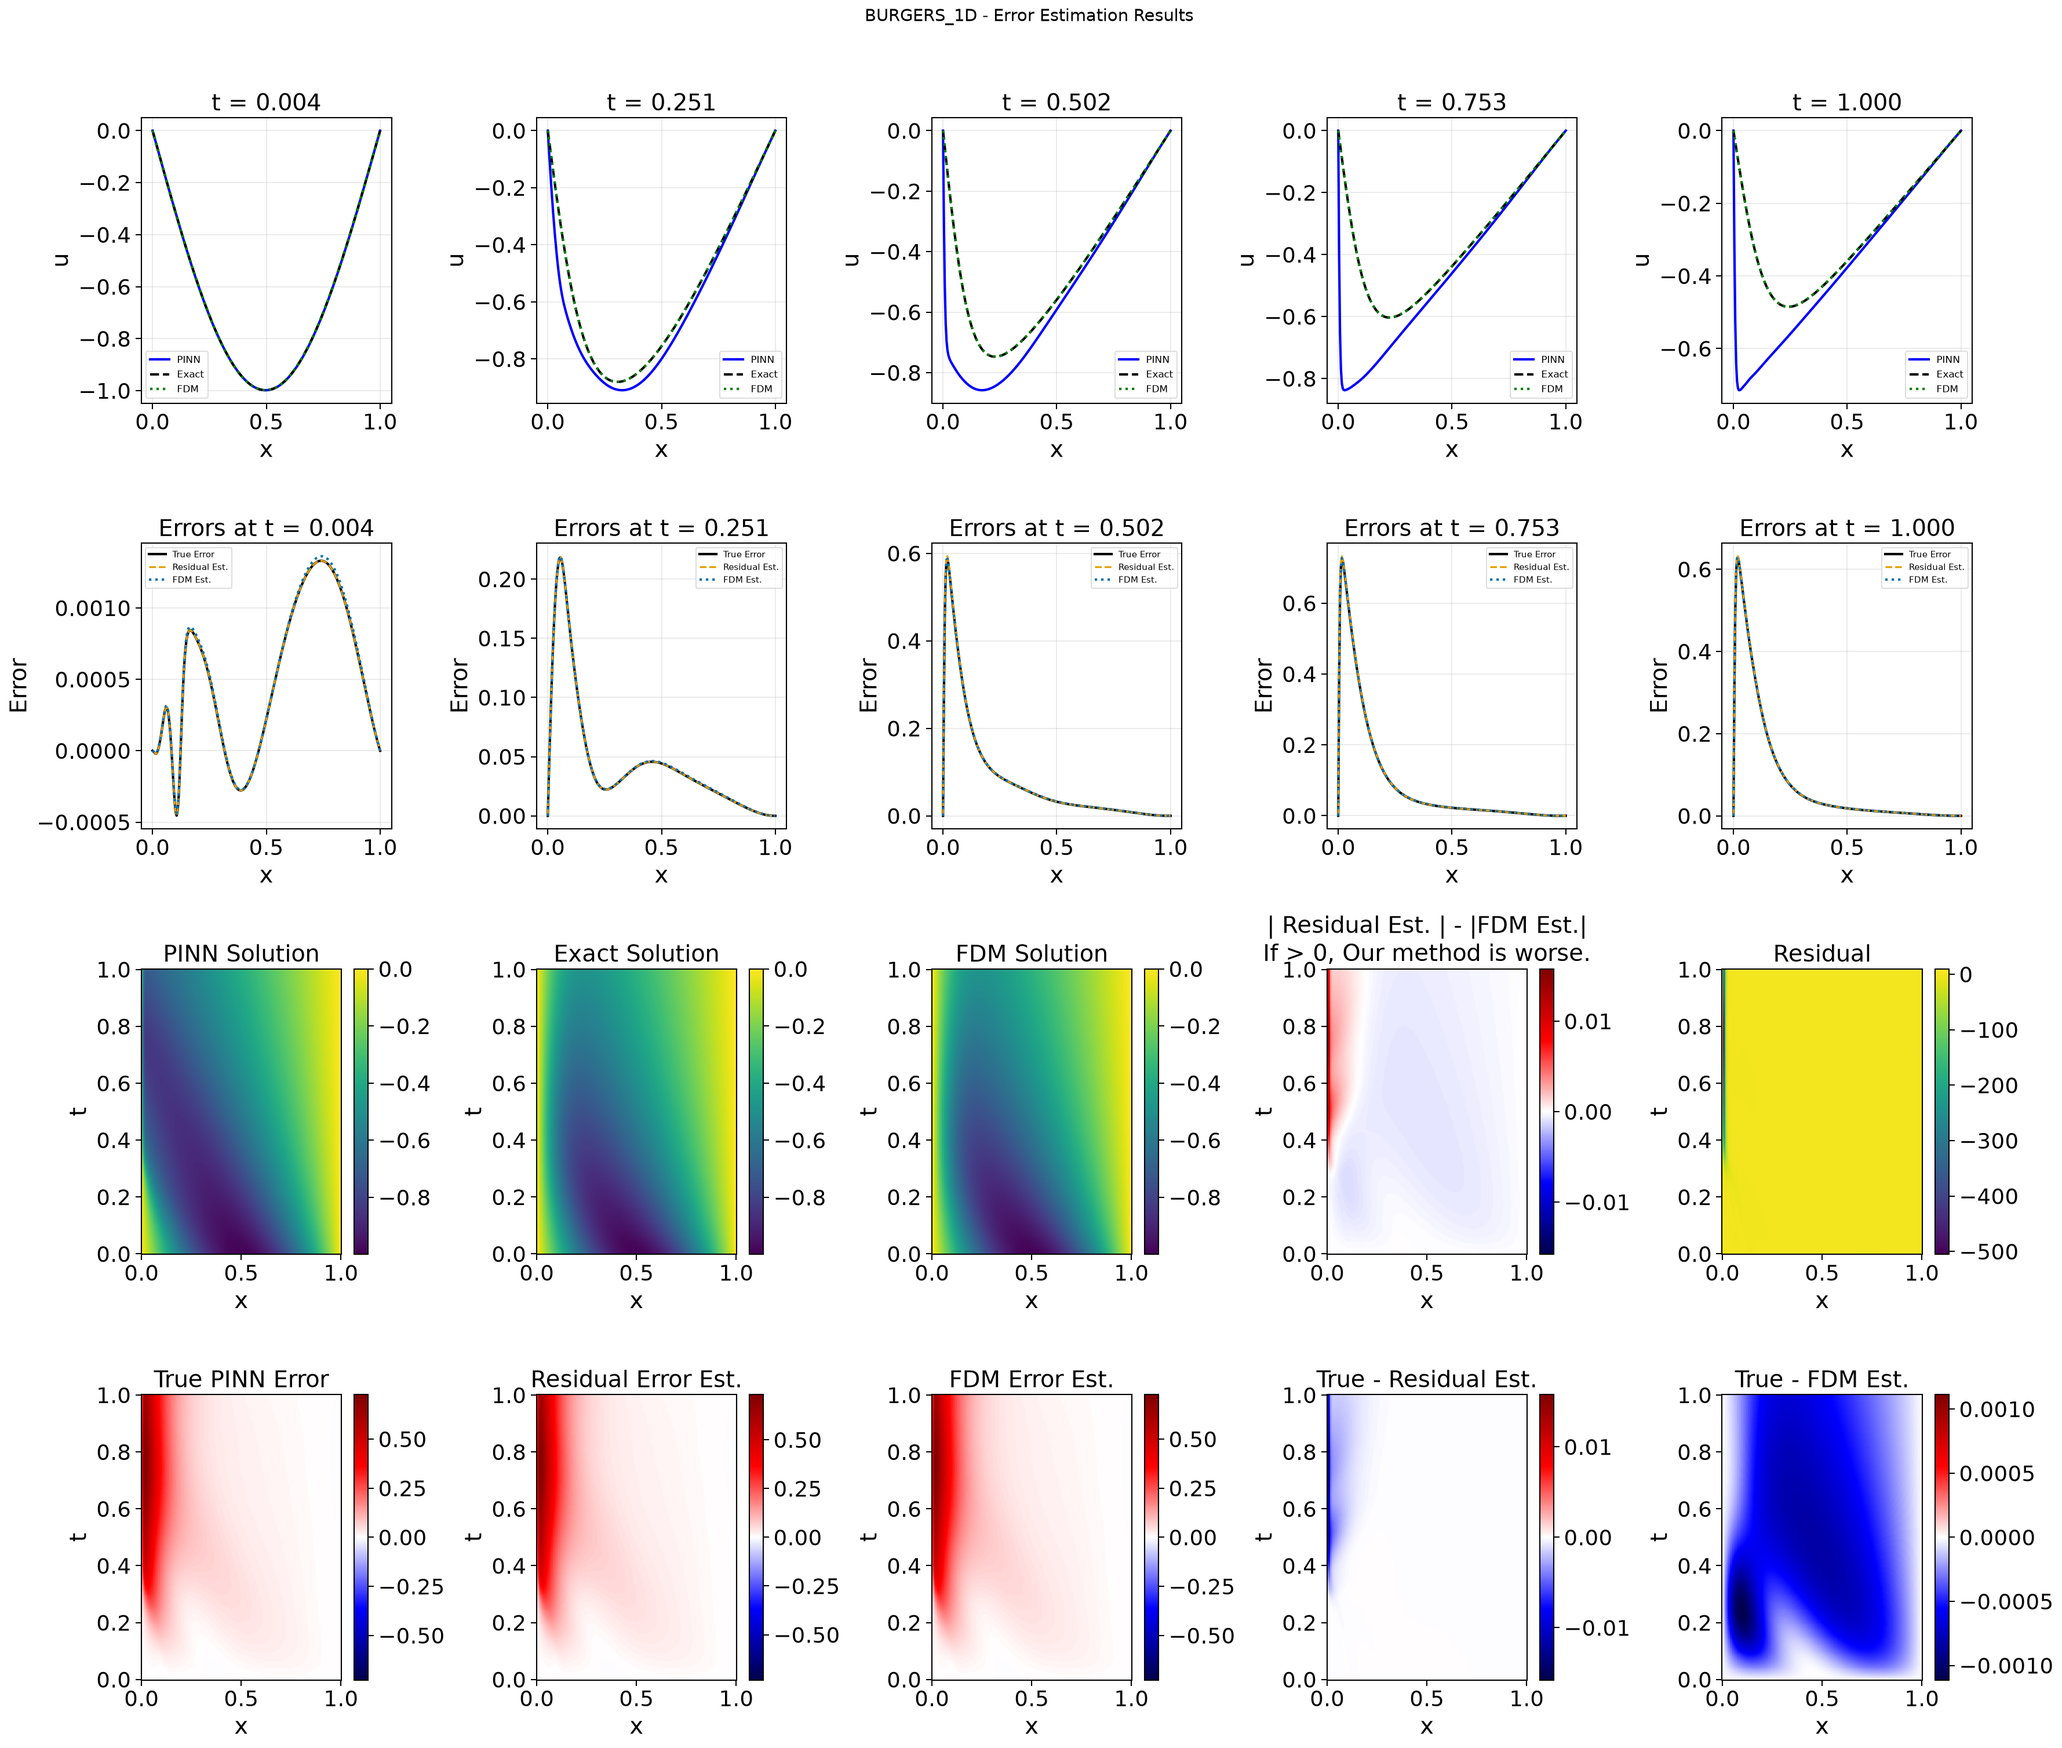
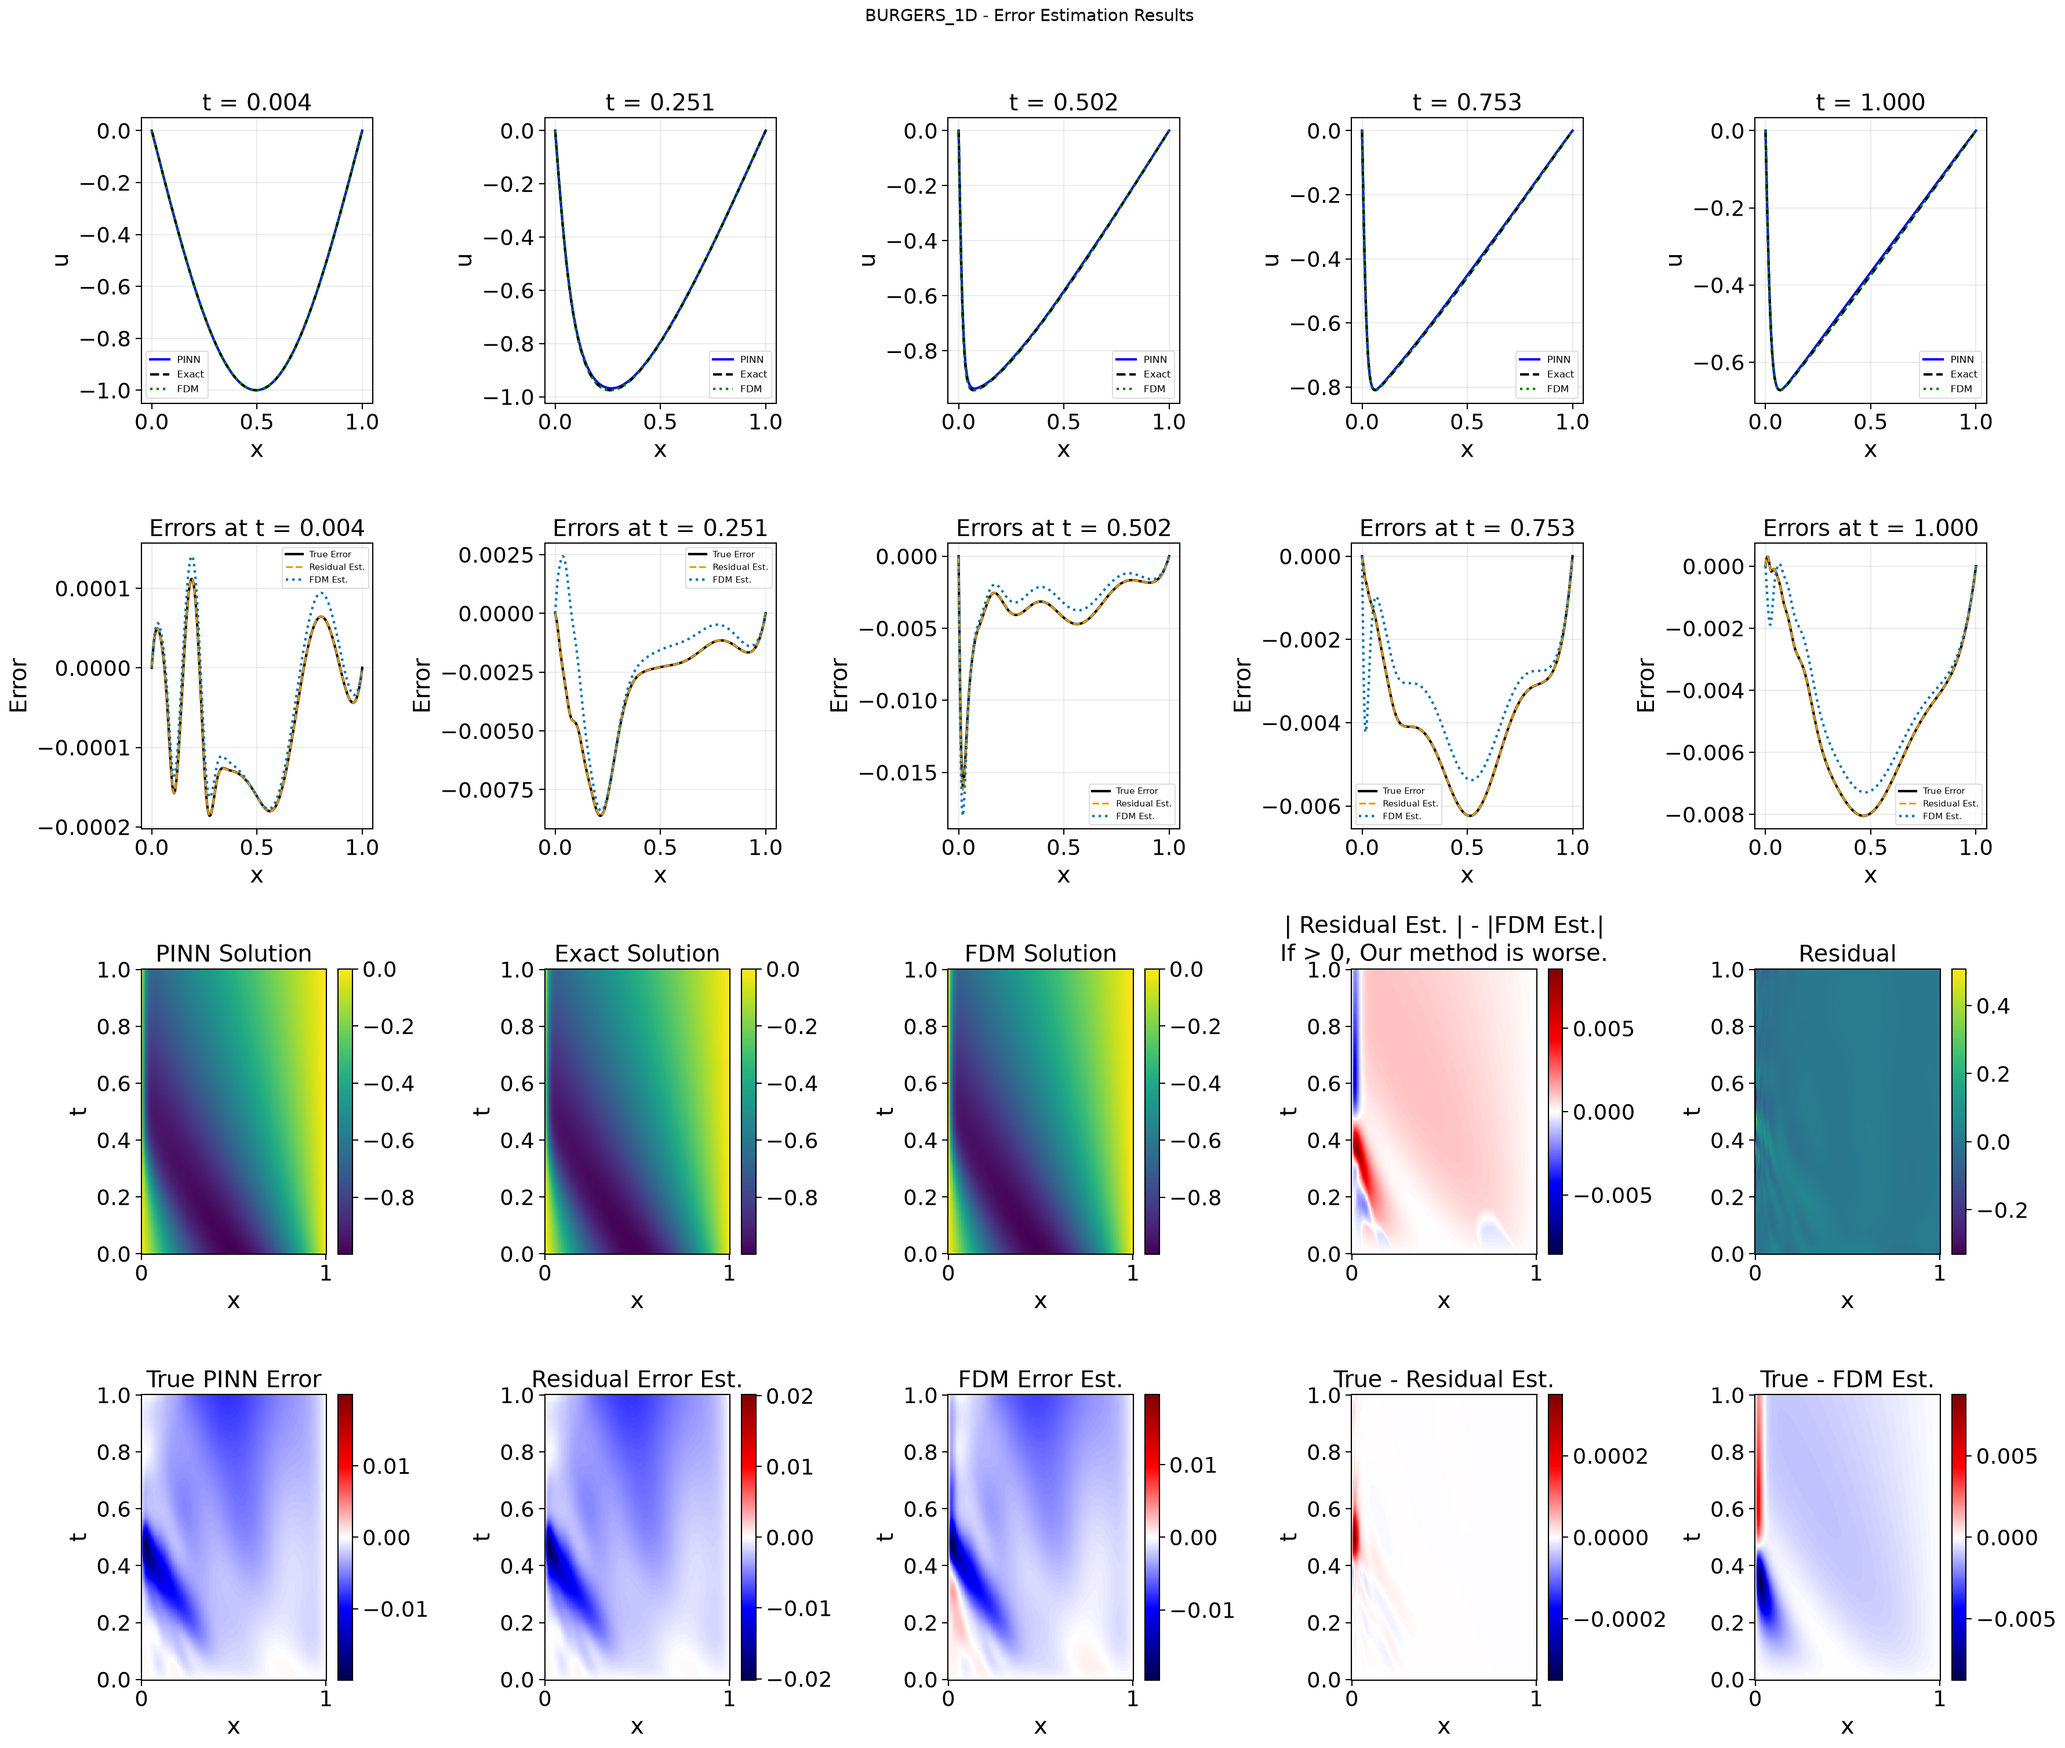
allen cahn implementation - tho still missing

diff --git a/pinn_error/core/fdm.py b/pinn_error/core/fdm.py
@@ -1102,6 +1102,7 @@ class FDMSolverWave1D:
 
 
 class FDMSolverBurgers1D:
+
     def __init__(
         self,
         nx: int,
@@ -1251,3 +1252,204 @@ class FDMSolverBurgers1D:
     def run_time(self) -> float:
         """Returns the FDM solve/error approx. time in seconds."""
         return self._run_time
+
+
+class FDMSolverAllenCahn:
+
+    def __init__(
+        self,
+        nx: int,
+        nt: int,
+        problem: AllenCahn,
+        domain: ProblemDomain,
+        pinn_model: PINNTrainer,
+        hard_constrain_initial: bool = True,
+        hard_constrain_boundary: bool = True,
+        newton_tol: float = 1e-12,
+        newton_max_iter: int = 20,
+    ):
+        """Initialize the FDM solver for the 1D Allen-Cahn equation.
+
+        PDE: u_t = d * u_xx + k * (u - u^3)        (k = problem.reaction = 5)
+
+        Uses Crank-Nicolson time stepping (see Section 3.2)
+            u^{n+1} - 0.5*dt*N(u^{n+1}) = u^n + 0.5*dt*N(u^n),
+            N(u) = d * A_xx u + k (u - u^3)
+        The cubic term makes each step nonlinear; it is solved with Newton's
+        method (tridiagonal Jacobian, typically 3-5 iterations). Lagging the
+        nonlinearity like in the Burgers solver would make the scheme only
+        first order in time.
+
+        Error equation (e = u - û, R = û_t - d û_xx - k(û - û^3)):
+            e_t = d * e_xx + G(e; û) - R,
+            G(e; û) = k[(û + e) - (û + e)^3] - k[û - û^3]
+                    = k(1 - 3û^2) e - 3k û e^2 - k e^3
+        This is exact (not linearized in e), so the estimate stays consistent
+        with the true error also for bad (e.g. randomly initialized) PINNs.
+
+        Args:
+            nx (int): Number of spatial grid points.
+            nt (int): Number of temporal grid points.
+            problem (AllenCahn): The problem definition.
+            domain (ProblemDomain): The problem domain.
+            pinn_model (PINNTrainer): The trained PINN model.
+            hard_constrain_initial (bool, optional): Whether IC is hard-constrained
+                    in the PINN (i.e. constraint_mode="hard"). If False, the actual
+                    pointwise error at t=0 is computed instead of assuming it's zero.
+            hard_constrain_boundary (bool, optional): Whether BC is hard-constrained
+                    in the PINN. If False, the actual boundary error is computed at
+                    every time step instead of assuming it's zero. Defaults to True.
+            newton_tol (float, optional): Max-norm tolerance of the Newton update.
+            newton_max_iter (int, optional): Max Newton iterations per time step;
+                    stability_flag is set if it is reached without converging.
+        """
+        self.problem = problem
+        self.domain = domain
+        self.pinn_model = pinn_model
+        self.hard_constrain_initial = hard_constrain_initial
+        self.hard_constrain_boundary = hard_constrain_boundary
+        self.newton_tol = newton_tol
+        self.newton_max_iter = newton_max_iter
+        self.nx = nx
+        self.nt = nt
+        # Grid spacing
+        self.dx = (self.domain.spatial_bounds[1] - self.domain.spatial_bounds[0]) / (
+            nx - 1
+        )
+        self.dt = (self.domain.temporal_bounds[1] - self.domain.temporal_bounds[0]) / (
+            nt - 1
+        )
+        # Create grids
+        self.x = np.linspace(
+            self.domain.spatial_bounds[0], self.domain.spatial_bounds[1], nx
+        )
+        self.t = np.linspace(
+            self.domain.temporal_bounds[0], self.domain.temporal_bounds[1], nt
+        )
+        # caching once -- only the diagonal reaction part changes per iteration
+        self._A_xx = FDMMatrixBuilder.get_derivative_matrix_1d(nx, self.dx, order=2)
+        self._D = (self.problem.d * self._A_xx).tocsr()
+        self.stability_flag = False  # flag for stability issues
+        self._run_time = 0.0
+
+
+    def _build_matrices(self, reaction: np.ndarray):
+        """Newton matrix of the implicit CN half step:
+            M_lhs = I - 0.5*dt*(d*A_xx + diag(reaction)),  Dirichlet rows = identity
+        Args:
+            reaction: dG/dy at the current Newton iterate, k(1 - 3(û + y)^2)
+                      (û = 0 for solve())
+        """
+        L = self._D + sparse.diags(reaction)
+        I = sparse.eye(self.nx, format="csr")
+        M_lhs = (I - 0.5 * self.dt * L).tolil()
+        for i in (0, -1):                      # Dirichlet rows
+            M_lhs[i, :] = 0; M_lhs[i, i] = 1
+        self.M_lhs = M_lhs.tocsr()
+
+
+    def _G(self, y: np.ndarray, u_hat: np.ndarray) -> np.ndarray:
+        """G(y; û) = k[(û + y) - (û + y)^3] - k[û - û^3]
+        (û = 0 gives the plain reaction k(u - u^3) used in solve())."""
+        k = self.problem.reaction
+        w = u_hat + y
+        return k * (w - w**3) - k * (u_hat - u_hat**3)
+
+
+    def _cn_step(self, y_n, u_hat_n, u_hat_next, R_n, R_next, bc_next):
+        """One CN step for y_t = d y_xx + G(y; û) - R, solved with Newton.
+        Dirichlet values y[0], y[-1] = bc_next."""
+        half_dt = 0.5 * self.dt
+        explicit = (
+            y_n + half_dt * (self._D @ y_n + self._G(y_n, u_hat_n) - R_n)
+            - half_dt * R_next
+        )
+        y = y_n.copy()
+        y[[0, -1]] = bc_next
+        k = self.problem.reaction
+        for _ in range(self.newton_max_iter):
+            F = y - half_dt * (self._D @ y + self._G(y, u_hat_next)) - explicit
+            F[[0, -1]] = 0.0                    # boundary values already imposed
+            self._build_matrices(reaction=k * (1.0 - 3.0 * (u_hat_next + y) ** 2))
+            delta = spsolve(self.M_lhs, -F)
+            y += delta
+            if np.max(np.abs(delta)) < self.newton_tol:
+                break
+        else:
+            self.stability_flag = True
+        return y
+
+
+    def _pinn_u(self, t):
+        return self.pinn_model.predict(
+            np.column_stack([self.x, t * np.ones_like(self.x)])
+                ).flatten()
+
+
+    def solve(self):
+        start_time = time.time()
+        u = np.zeros((self.nt, self.nx))
+        u[0] = np.ravel(self.problem.initial_condition(self.x))
+        u_bd = np.ravel(self.problem.boundary_condition(self.x[[0, -1]]))  # = -1
+        zeros = np.zeros(self.nx)
+        for n in range(self.nt - 1):
+            u[n + 1] = self._cn_step(u[n], zeros, zeros, zeros, zeros, u_bd)
+        self._run_time = time.time() - start_time
+        return u
+
+
+    def _pinn_residual(self, t):
+        R = self.pinn_model.residual(
+            np.column_stack([self.x, t * np.ones_like(self.x)])
+        ).flatten()
+        R[0] = R[-1] = 0.0   # boundary rows are Dirichlet, source unused there
+        return R
+
+
+    def residual_integration(self):
+        start_time = time.time()
+        e = np.zeros((self.nt, self.nx))
+        if not self.hard_constrain_initial:
+            e[0] = np.ravel(self.problem.initial_condition(self.x)) - self._pinn_u(self.t[0])
+
+        R_curr = self._pinn_residual(self.t[0])      # with R[0]=R[-1]=0
+        u_hat_curr = self._pinn_u(self.t[0])
+
+        for n in range(self.nt - 1):
+            t_next = self.t[n + 1]
+            u_hat_next = self._pinn_u(t_next)
+            R_next = self._pinn_residual(t_next)
+
+            bc_next = (
+                np.zeros(2) if self.hard_constrain_boundary
+                else self._boundary_error(t_next)
+            )
+            e[n + 1] = self._cn_step(
+                e[n], u_hat_curr, u_hat_next, R_curr, R_next, bc_next
+            )
+            R_curr, u_hat_curr = R_next, u_hat_next
+
+        self._run_time = time.time() - start_time
+        return e
+
+
+    def _boundary_error(self, t: float) -> np.ndarray:
+        """Actual pointwise error at x_min/x_max at a given time. The boundary
+        data u = -1 is prescribed, so it is known exactly (no reference solve
+        needed) -- used when BC is soft."""
+        x_bd = np.array([self.x[0], self.x[-1]])
+        t_bd = t * np.ones_like(x_bd)
+        u_bd = np.ravel(self.problem.boundary_condition(x_bd))
+        u_pinn = self.pinn_model.predict(np.column_stack([x_bd, t_bd])).flatten()
+        return u_bd - u_pinn
+
+    @property
+    def run_time(self) -> float:
+        """Returns the FDM solve/error approx. time in seconds."""
+        return self._run_time
+        
+
+
+    
+        
+    

diff --git a/pinn_error/utils/experiment_factory.py b/pinn_error/utils/experiment_factory.py
@@ -7,7 +7,7 @@ from pinn_error.core.fdm import (FDMSolverDriftDiffusion, FDMSolverHeatEq,
 from pinn_error.core.pinn import PINNConfig, PINNTrainer
 from pinn_error.core.problem import BaseProblem, ProblemDomain
 from pinn_error.problems import (DriftDiffusion, Heat1DProblemSineIC,
-                                 Poisson1D, Poisson2D, Wave1D, Burgers1D)
+                                 Poisson1D, Poisson2D, Wave1D, Burgers1D, AllenCahn)
 
 # Define accepted kwargs for each problem type
 PROBLEM_KWARGS = {
@@ -17,6 +17,7 @@ PROBLEM_KWARGS = {
     "poisson_1d": ["x_min", "x_max"],
     "poisson_2d": ["x_min", "x_max", "y_min", "y_max"],
     "burgers_1d": ["x_min", "x_max", "t_max", "viscosity"],
+    "allen_cahn": ["x_min", "x_max", "t_max", "d" ],
 }
 
 
@@ -40,6 +41,8 @@ def get_problem(problem_name: str, **kwargs):
         return DriftDiffusion(**filtered_kwargs)
     elif problem_name == "burgers_1d":
         return Burgers1D(**filtered_kwargs)
+    elif problem_name == "allen_cahn":
+        return AllenCahn(**filtered_kwargs)
     else:
         raise ValueError(f"Unknown problem name: {problem_name}")
 
@@ -159,6 +162,10 @@ def get_fdm_solver(
             nt=nt,
             hard_constrain_initial=hc_flags["hard_constrain_initial"],
             hard_constrain_boundary=hc_flags["hard_constrain_boundary"],
+        )
+    elif problem_name == "allen_cahn"
+        return FDMSolverAllenCahn(
+            
         )
     else:
         raise ValueError(f"Unknown problem name: {problem_name}")

diff --git a/pinn_error/problems/allen_cahn.py b/pinn_error/problems/allen_cahn.py
@@ -1,0 +1,37 @@
+import deepxde as dde
+import numpy as np
+import torch
+from pinn_error.core.problem import BaseProblem, ProblemDomain
+
+
+class AllenCahn():
+
+    def __init__(
+            self,
+            x_min: float,
+            x_max: float,
+            t_max:float,
+            d: float = 0.001,
+    ):
+        self.spatial_bounds = (x_min, x_max)
+        self.temporal_bounds = (0.0, t_max)
+        self.d = d
+        domain = ProblemDomain(
+            spatial_bounds=self.spatial_bounds, temporal_bounds=self.temporal_bounds
+        )
+        super.__init__(domain)
+
+    def pde(self, x, u) -> torch.Tensor:
+        u_t = dde.grad.jacobian(u, x, i=0, j=1)
+        u_xx = dde.grad.hessian(u, x, i=0, j=0)
+        return u_t - self.d * u_xx - 5*(u - u**3)
+
+    def initial_condition(self, x) -> torch.Tensor | np.array:
+        return x**2 * torch.cos(torch.pi * x) if isinstance(x, torch.Tensor) else x**2 * np.cos(np.pi * x)
+
+    def output_transform(self, x, u) -> torch.Tensor: 
+        return x[:, 0:1]**2 * torch.cos(np.pi * x[:, 0:1]) + x[:, 1:2] * (1 - x[:, 0:1]**2) * u
+
+    def exact_solution(self, x, u) -> torch.Tensor:
+        "An approximation to the exact solution based on the FDM method"
+        return None

diff --git a/examples/run_experiment.py b/examples/run_experiment.py
@@ -70,6 +70,7 @@ def main(args):
         "propagation_speed": args.propagation_speed,
         "frequency": args.frequency,
         "viscosity": args.viscosity,
+        "d": args.d,  # for allen cahn 
     }
  
     # Pass all FDM kwargs
@@ -156,7 +157,7 @@ def parse_args():
     parser.add_argument(
         "--problem",
         type=str,
-        choices=["heat", "wave", "drift_diffusion", "poisson_1d", "poisson_2d", "burgers_1d"],
+        choices=["heat", "wave", "drift_diffusion", "poisson_1d", "poisson_2d", "burgers_1d", "allenCahn_1d"],
         required=True,
         help="The problem to solve.",
     )
@@ -259,6 +260,12 @@ def parse_args():
         type=float,
         default=0.01,  # / np.pi, # for the benchmark convention we're dividing it by pi
         help="Viscosity for Burgers' equation.",
+    )
+    parser.add_argument(
+       "--d",
+       type=float,
+       default=0.001,
+       help="The positive parameter for Allen Cahn equation."
     )
  
     # Domain parameters
